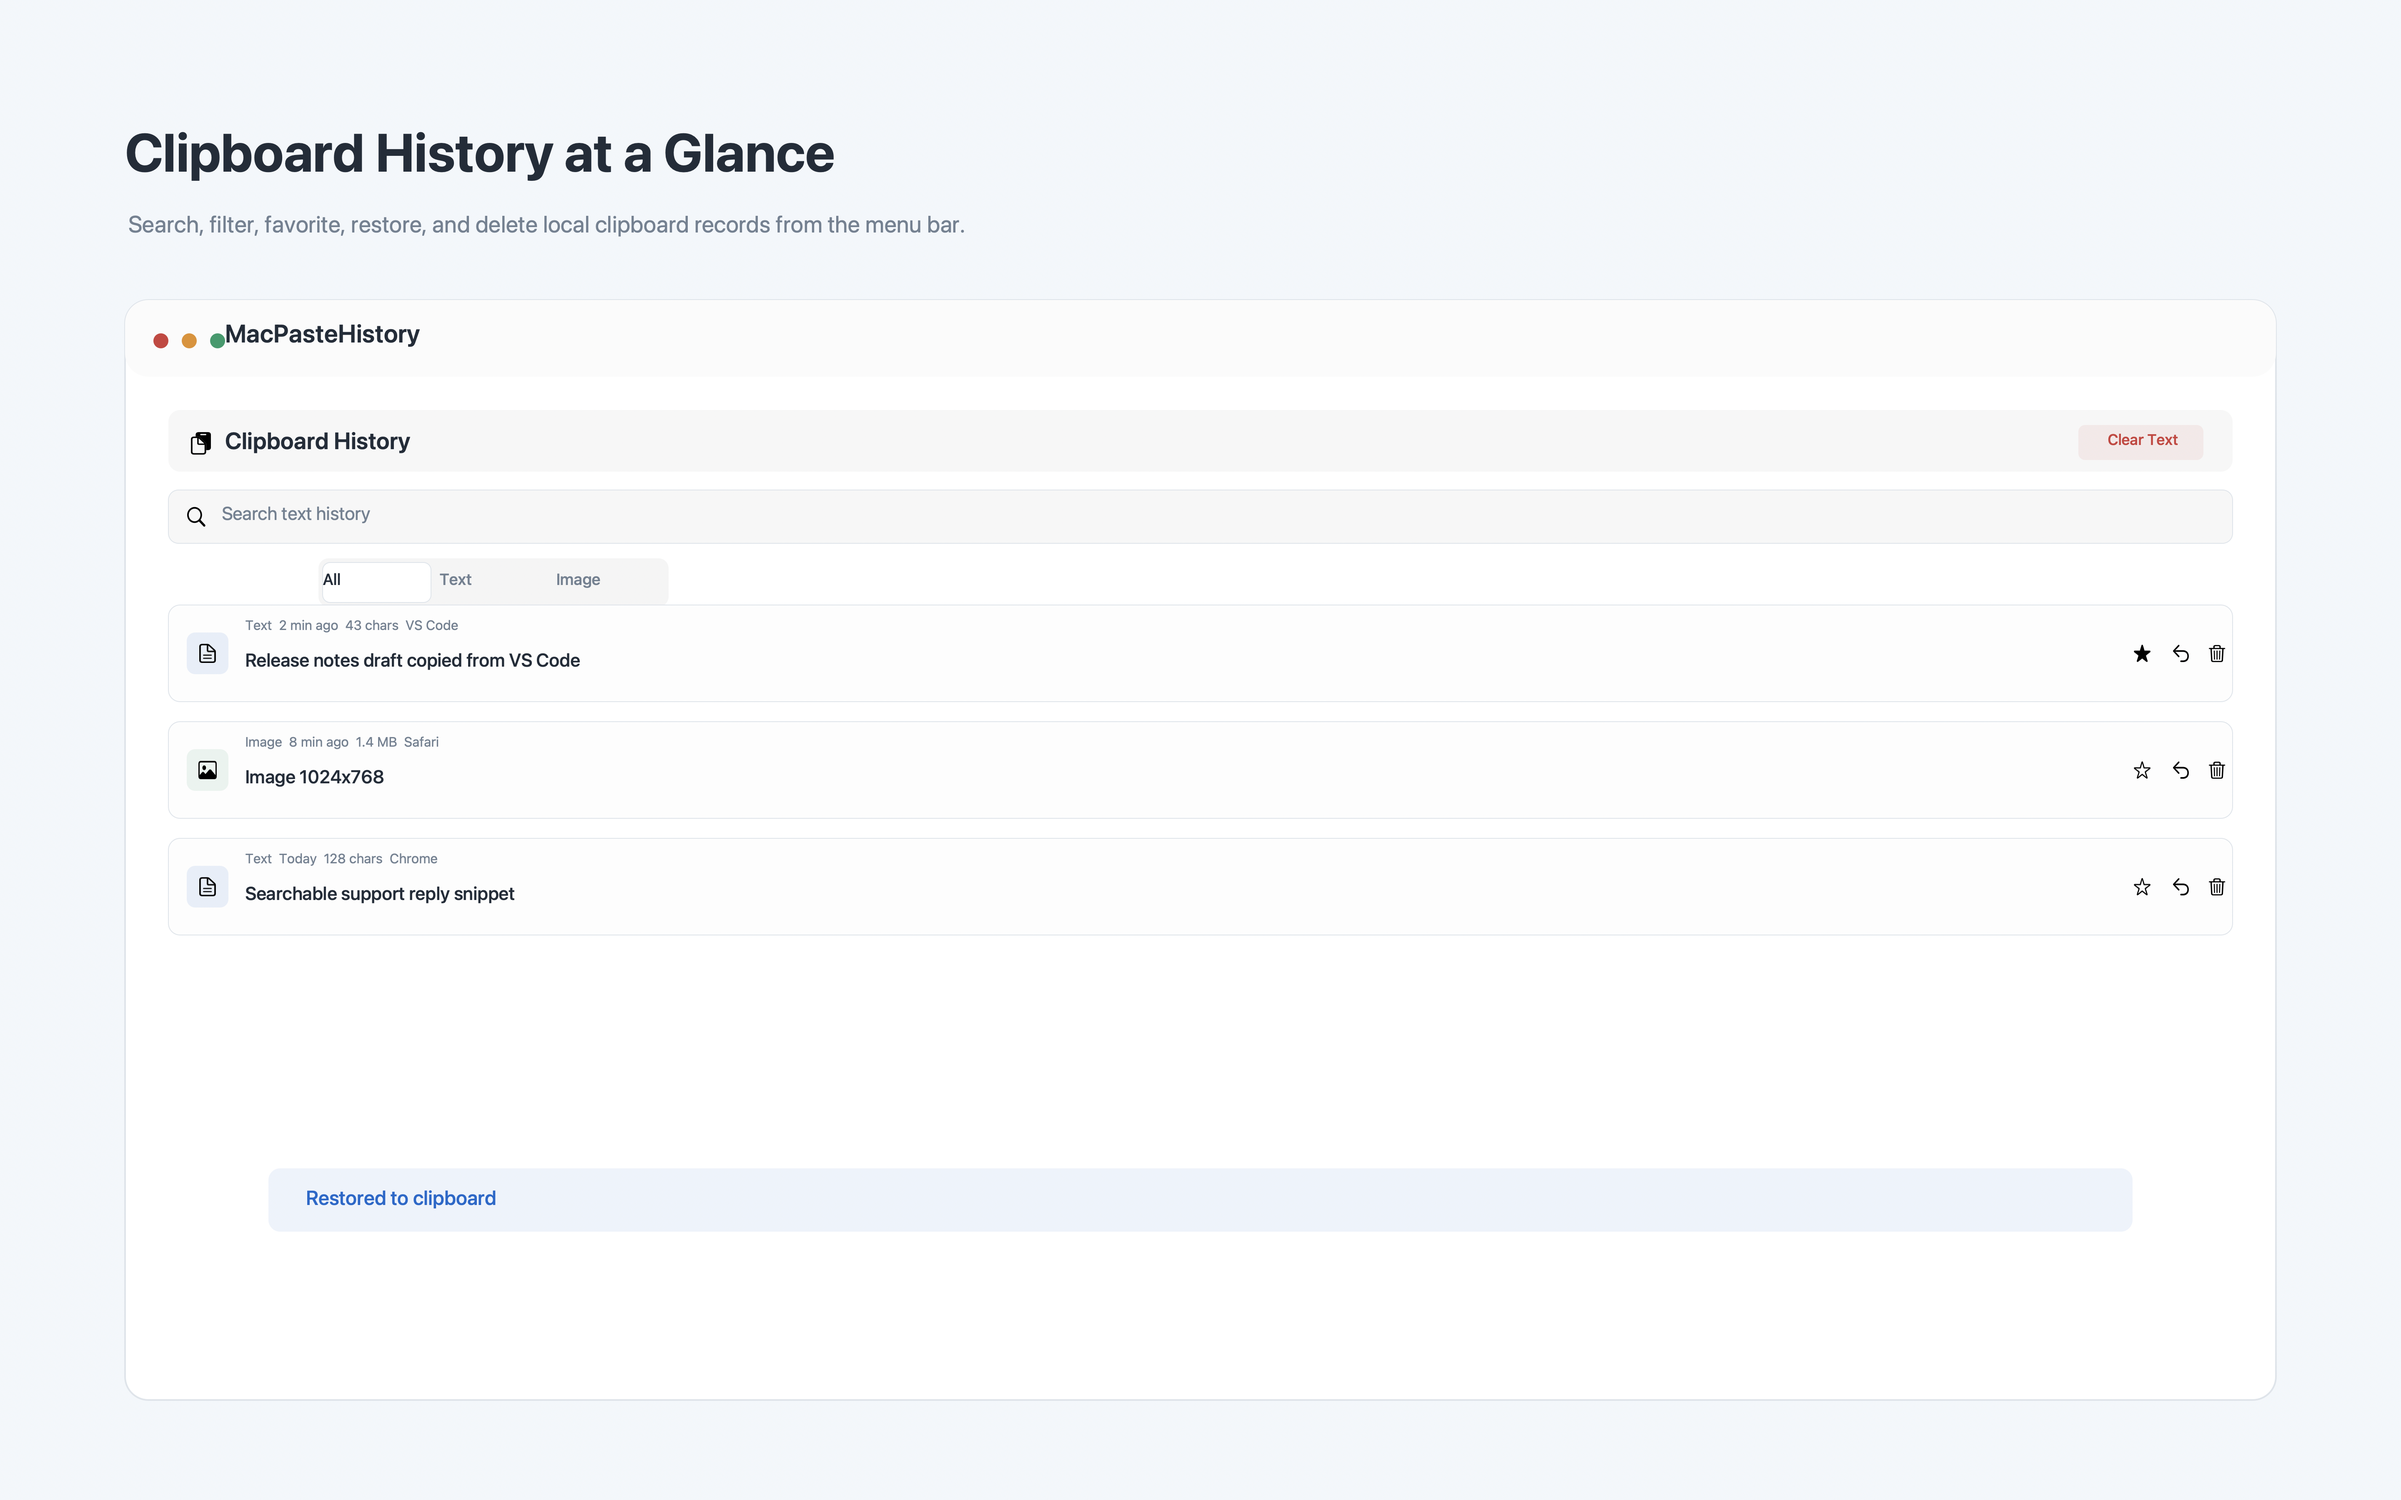
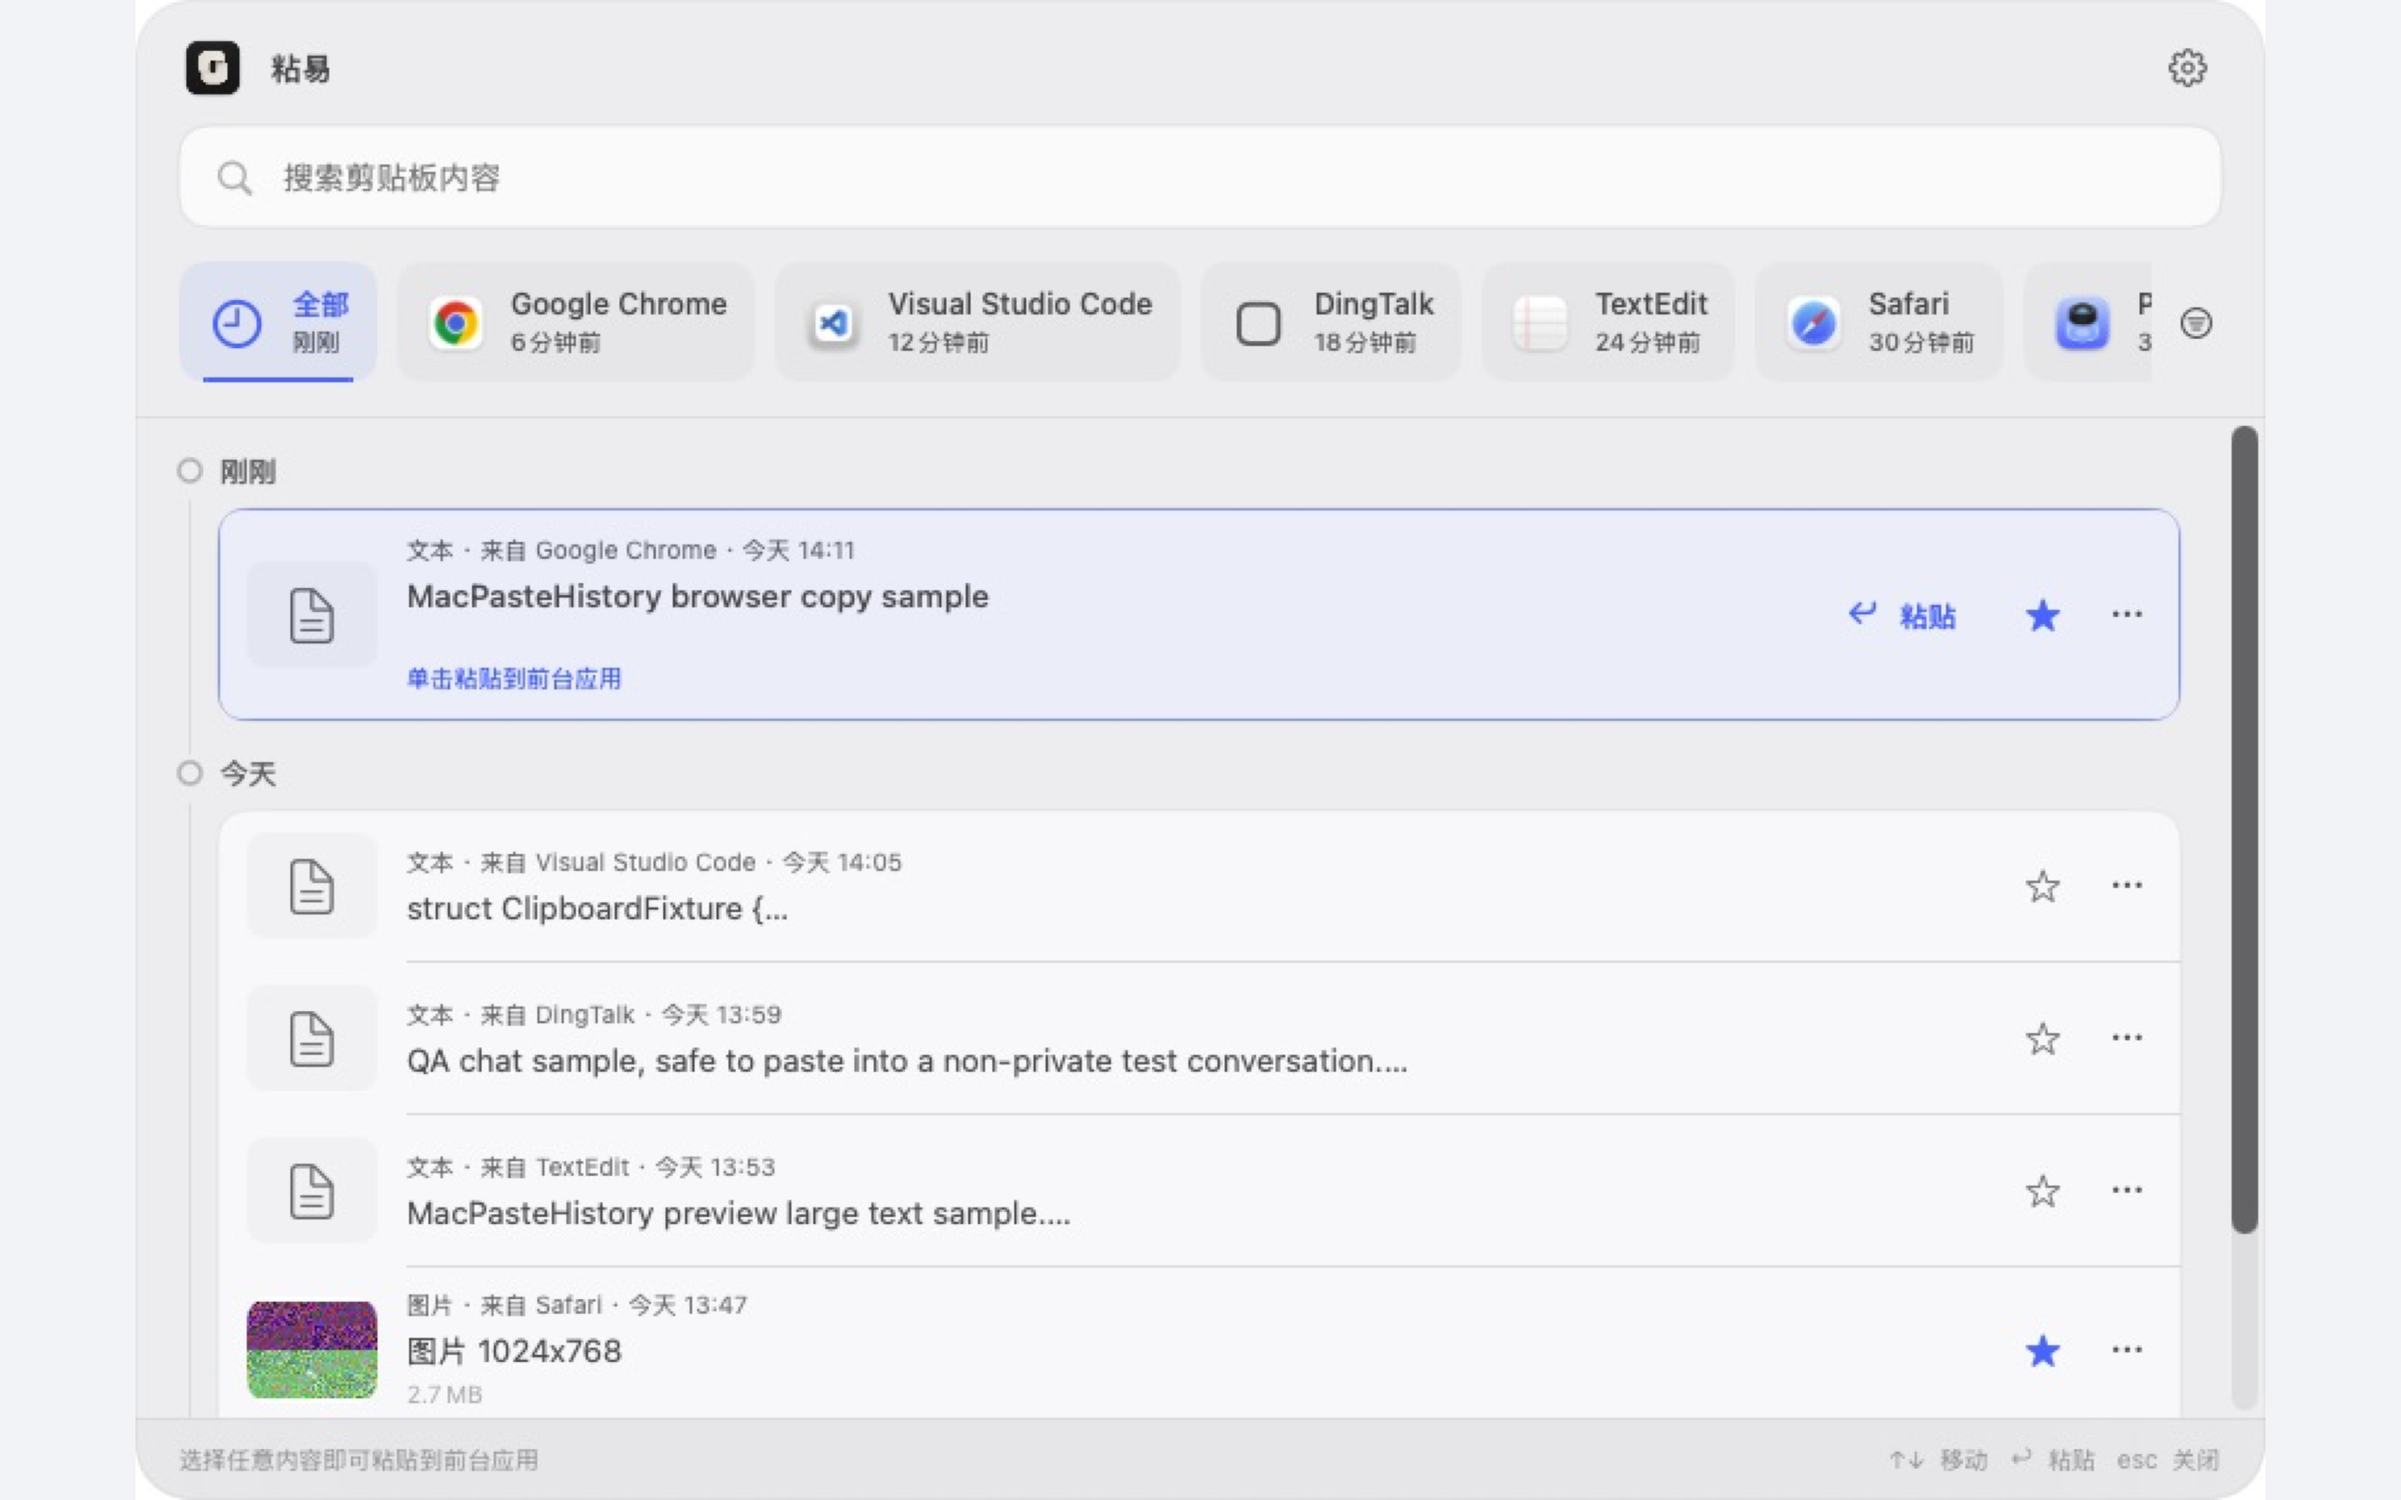
Refresh README and app screenshots

diff --git a/scripts/generate-manual-qa-fixtures.swift b/scripts/generate-manual-qa-fixtures.swift
@@ -34,7 +34,7 @@ private enum FixtureError: Error, CustomStringConvertible {
 
 private func largeText(repetitions: Int) -> String {
     let paragraph = [
-        "MacPasteHistory manual QA large text sample.",
+        "粘易 manual QA large text sample.",
         "This line is synthetic and contains no private clipboard data.",
         "Search token: release-fixture-clipboard-history.",
         "Mixed language sample: copy test text, menu bar restore, history search.",
@@ -50,7 +50,7 @@ private let textFixtures: [TextFixture] = [
     TextFixture(
         fileName: "01-browser-text-sample.txt",
         contents: """
-        MacPasteHistory browser copy sample
+        粘易 browser copy sample
 
         Copy this text from Chrome or Safari and verify:
         - The text appears in history.

diff --git a/docs/release/screenshots/README.md b/docs/release/screenshots/README.md
@@ -1,19 +1,19 @@
 # App Store Screenshot Assets
 
-These PNGs are generated from synthetic, non-private example data for release material preparation.
+These PNGs show the current 粘易 Release UI with synthetic, non-private example data. They are also used by the repository README.
 
-Regenerate them with:
+## Current assets
 
-```bash
-scripts/generate-release-screenshots.swift
-```
+- `01-history-overview.png`: top overlay, recent-source ribbon, timeline groups, search, filtering, and row actions.
+- `02-image-history.png`: image detail, dimensions, format, source application, favorite, delete, and copy actions.
+- `03-settings-controls.png`: General settings, recording options, launch behavior, shortcut customization, and language.
+- `04-local-privacy.png`: pause recording and application blocklist controls.
 
-Generated assets:
+## Refresh workflow
 
-- `01-history-overview.png`: history list, search, filters, and restore feedback.
-- `02-image-history.png`: image history, thumbnail grid, metadata, and restore action.
-- `03-settings-controls.png`: recording, launch, retention, and storage controls.
-- `04-local-privacy.png`: local storage, pause, sensitive filtering, and clear-all messaging.
+1. Run `scripts/preview-release-app.sh --seed-preview-data` to build and launch the current Release app with isolated synthetic history.
+2. Capture the four views from the running app. Do not use personal clipboard history or user files.
+3. Export each image as a 5760 × 3600 PNG, preserving the filenames above.
+4. Run `scripts/verify-release-screenshot-assets.sh` and visually review every image before committing.
 
-All screenshots must be visually reviewed before final App Store upload.
-Screenshots and captions must not claim local database encryption for the current release; encrypted local storage is a future P2 capability.
+The legacy static screenshot generator does not reflect the live SwiftUI layout and is not the source of truth for README or release screenshots. Screenshots and captions must not claim local database encryption for the current release; encrypted local storage is a future P2 capability.

diff --git a/README.md b/README.md
@@ -1,18 +1,38 @@
 # 粘易
 
-粘易是一款本地优先的 macOS 剪贴板历史工具。它常驻菜单栏，支持文本和图片历史、搜索筛选、快捷键唤出，以及选择记录后返回原应用自动粘贴。
+粘易是一款本地优先的 macOS 剪贴板历史工具。它常驻菜单栏，以顶部轻量浮层呈现文本与图片历史；选中记录后会返回原应用并自动粘贴，不打断当前工作流。
 
-![粘易复制历史界面](docs/release/screenshots/01-history-overview.png)
+> 以下界面来自当前 Release 构建，内容均为合成示例数据，不包含真实剪贴板记录。
+
+## 界面预览
+
+### 时间线式复制历史
+
+![粘易时间线式复制历史界面](docs/release/screenshots/01-history-overview.png)
+
+### 图片详情
+
+![粘易图片历史详情界面](docs/release/screenshots/02-image-history.png)
+
+### 设置与隐私控制
+
+<table>
+  <tr>
+    <td width="50%"><img src="docs/release/screenshots/03-settings-controls.png" alt="粘易通用设置界面"></td>
+    <td width="50%"><img src="docs/release/screenshots/04-local-privacy.png" alt="粘易隐私设置界面"></td>
+  </tr>
+</table>
 
 ## 主要功能
 
 - 记录文本与图片剪贴板历史，数据仅保存在本机
-- 按时间和来源应用组织历史记录
+- 以来源应用快捷筛选和“刚刚 / 今天 / 更早”时间线组织历史记录
 - 支持搜索、类型筛选、时间筛选与收藏
 - 在全屏应用上方以轻量浮层显示，不切换到新窗口
 - 点击记录后恢复剪贴板、返回原应用并自动粘贴
 - 支持自定义全局快捷键，默认快捷键为 `Command + Shift + V`
-- 提供暂停记录、应用黑名单、敏感内容过滤和数据清理设置
+- 首次启动或自动粘贴被 macOS 拦截时提供辅助功能权限提醒
+- 提供暂停记录、应用黑名单、敏感内容过滤、保留期限和数据清理设置
 - 支持简体中文、繁体中文和英文
 
 ## 系统要求

diff --git a/docs/release/RELEASE_PREP_GUIDE.md b/docs/release/RELEASE_PREP_GUIDE.md
@@ -781,13 +781,13 @@ MacPasteHistory **不收集任何个人身份信息**。
 
 1. `docs/release/screenshots/01-history-overview.png` — 历史列表、搜索、过滤、收藏、恢复和删除入口
 2. `docs/release/screenshots/02-image-history.png` — 图片缩略图、图片详情、尺寸、格式和来源应用
-3. `docs/release/screenshots/03-settings-controls.png` — 录制开关、Launch at login、保留时间和存储限制
-4. `docs/release/screenshots/04-local-privacy.png` — 本地存储、暂停记录、敏感内容过滤和清空全部数据
+3. `docs/release/screenshots/03-settings-controls.png` — 录制开关、Launch at login、自定义快捷键和语言
+4. `docs/release/screenshots/04-local-privacy.png` — 暂停记录和应用黑名单
 
 #### 截图制作建议
 
-- 当前仓库提供可重复生成脚本：`scripts/generate-release-screenshots.swift`
-- 使用合成示例数据，不包含真实用户内容
+- 使用 `scripts/preview-release-app.sh --seed-preview-data` 启动当前 Release 界面并注入隔离的合成示例数据
+- 从运行中的应用采集截图，不包含真实用户内容；旧的静态生成脚本不再作为当前界面的截图来源
 - macOS 模板框架使用 [App Store Marketing Guidelines](https://developer.apple.com/app-store/marketing/guidelines/) 的官方模板
 - 分辨率: 2x（确保 Retina 清晰）
 - 当前输出为 5760 × 3600 PNG，可按最终上架渠道要求裁切或导出目标尺寸

diff --git a/docs/development-log.md b/docs/development-log.md
@@ -4,6 +4,7 @@
 
 ### Changed
 
+- Refreshed the GitHub README and all four release screenshots from the current 粘易 Release build using isolated synthetic clipboard data; the documentation now shows the timeline overlay, image detail, categorized Settings, and Privacy controls.
 - Added a centralized Accessibility permission service. An untrusted first launch now shows one reminder, and every blocked automatic-paste attempt keeps the history panel open and shows localized guidance with an “Open System Settings” action.
 - Rebuilt the history overlay from the selected Context Timeline design, with a recent-source ribbon, chronological sections, inline keyboard selection, compact filtering, and clearer paste affordances.
 - Reorganized Settings into General, Privacy, and Storage and Data categories, and rebuilt history detail as a fixed-header/fixed-action sheet with independently scrolling content.
